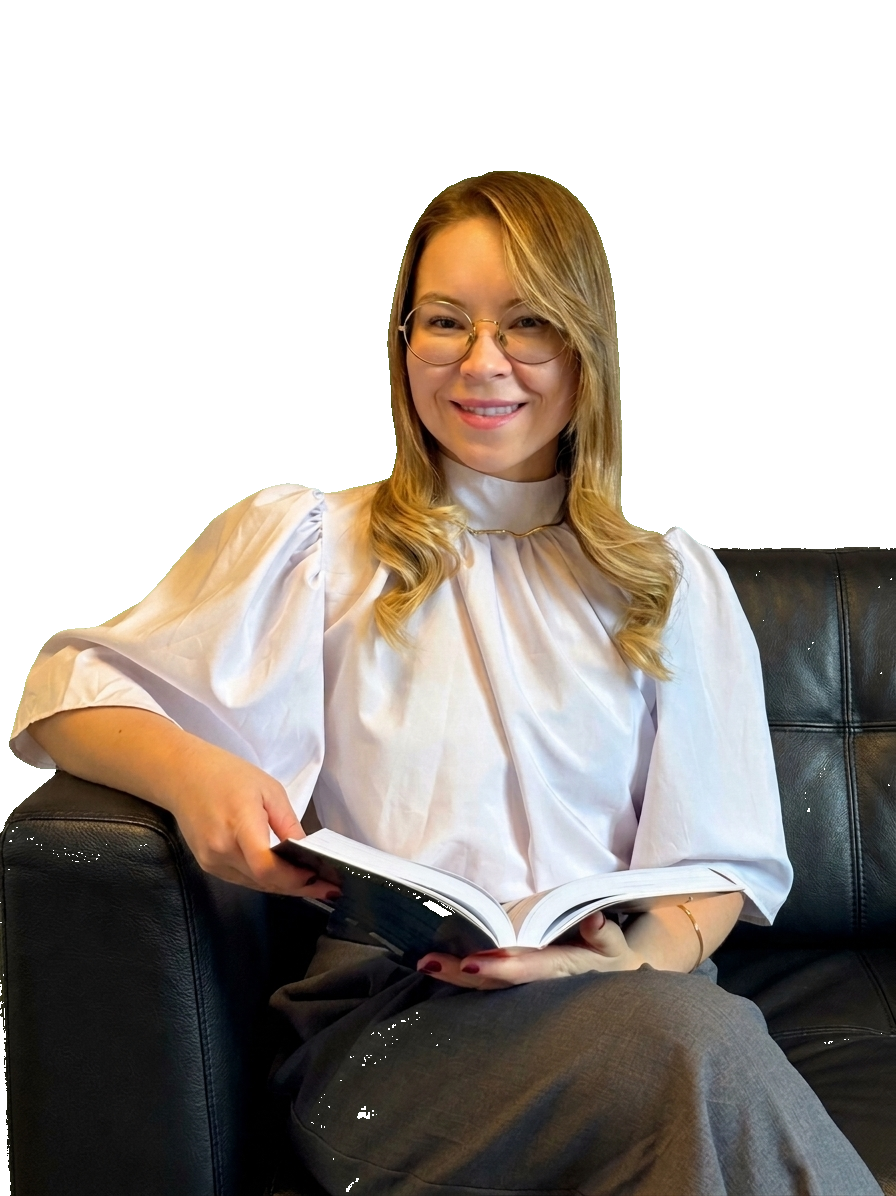
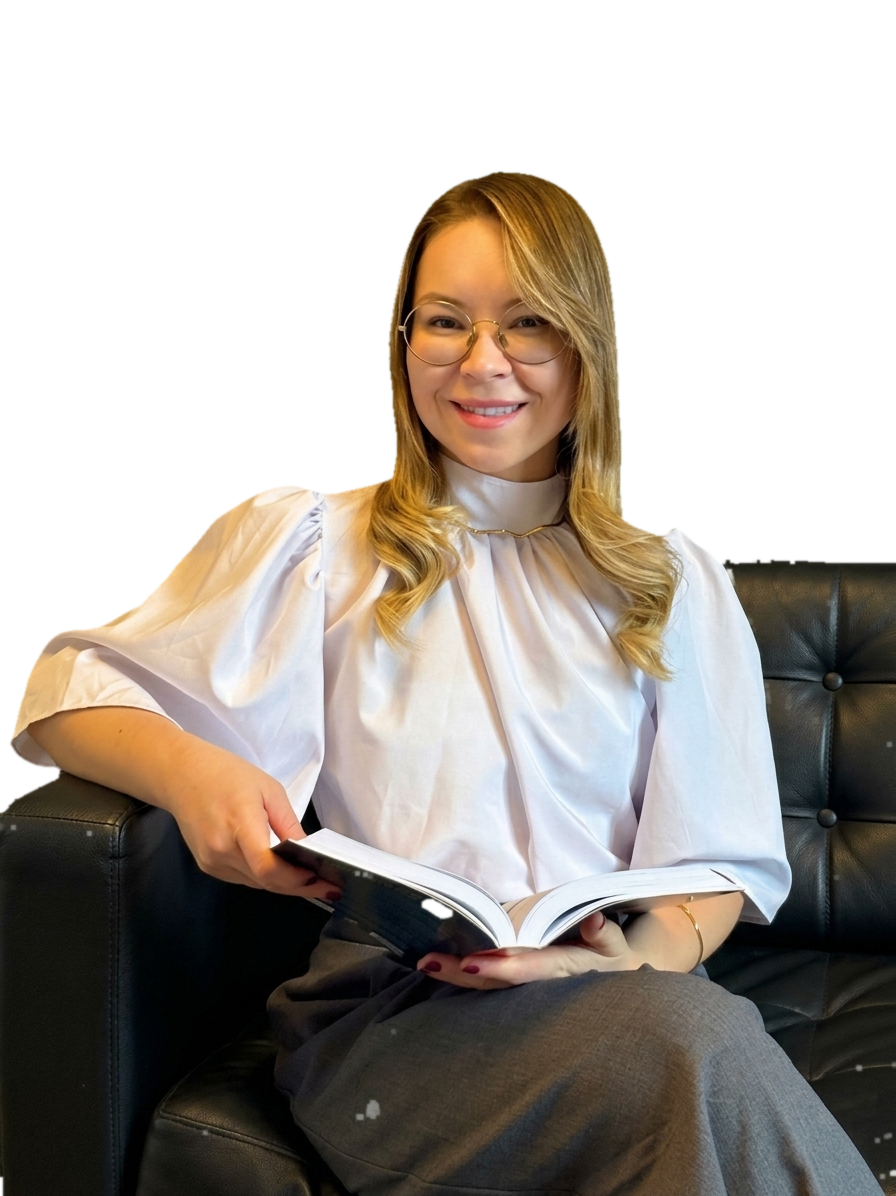
Add a greenscreen cutout script and the sofa photo without background.

diff --git a/scripts/remove_background.py b/scripts/remove_background.py
@@ -1,0 +1,113 @@
+#!/usr/bin/env python3
+"""Remove the green-screen background from sofa-preto.jpeg."""
+
+from __future__ import annotations
+
+import argparse
+from pathlib import Path
+
+from PIL import Image, ImageFilter
+
+ROOT = Path(__file__).resolve().parents[1]
+DEFAULT_SRC = ROOT / "app/assets/images/sofa-preto.jpeg"
+DEFAULT_DST = ROOT / "app/assets/images/sofa-preto.png"
+
+# Chroma-key thresholds: how much greener than R/B a pixel must be.
+HARD_GREEN = 28
+SOFT_GREEN = 8
+GREEN_HUE_MIN = 50
+GREEN_HUE_MAX = 105
+
+
+def greenness(r: int, g: int, b: int) -> int:
+    return g - max(r, b)
+
+
+def clamp(value: int) -> int:
+    return max(0, min(255, value))
+
+
+def key_alpha(r: int, g: int, b: int, h: int, s: int, v: int) -> int:
+    if v < 50 and max(r, g, b) < 90:
+        return 255
+
+    score = greenness(r, g, b)
+    hue_green = GREEN_HUE_MIN <= h <= GREEN_HUE_MAX
+
+    if hue_green and s >= 85 and v >= 40:
+        return 0
+    if g > 50 and score >= HARD_GREEN:
+        return 0
+
+    rgb_alpha = 255
+    if score > SOFT_GREEN:
+        t = (score - SOFT_GREEN) / (HARD_GREEN - SOFT_GREEN)
+        rgb_alpha = int(255 * (1.0 - t))
+
+    hue_alpha = 255
+    if hue_green and s > 35 and v > 30:
+        t = (s - 35) / 50
+        hue_alpha = int(255 * (1.0 - t))
+
+    return clamp(min(rgb_alpha, hue_alpha))
+
+
+def despill(r: int, g: int, b: int, h: int, s: int, alpha: int) -> tuple[int, int, int]:
+    if alpha == 0:
+        return r, g, b
+    max_rb = max(r, b)
+    pull = 0.85
+    if GREEN_HUE_MIN <= h <= GREEN_HUE_MAX:
+        pull = 0.95
+    if g > max_rb:
+        g = int(g - (g - max_rb) * pull)
+    if s > 20 and GREEN_HUE_MIN <= h <= GREEN_HUE_MAX:
+        # Shift leftover green toward the neighbor luminance.
+        g = int((g + max_rb) / 2)
+    return r, clamp(g), b
+
+
+def remove_green_screen(src: Path, dst: Path) -> Path:
+    image = Image.open(src).convert("RGBA")
+    hsv = image.convert("RGB").convert("HSV")
+    rgba_bytes = bytearray(image.tobytes())
+    hsv_bytes = hsv.tobytes()
+
+    for i in range(image.size[0] * image.size[1]):
+        rgba_i = i * 4
+        hsv_i = i * 3
+        r, g, b = rgba_bytes[rgba_i], rgba_bytes[rgba_i + 1], rgba_bytes[rgba_i + 2]
+        h, s, v = hsv_bytes[hsv_i], hsv_bytes[hsv_i + 1], hsv_bytes[hsv_i + 2]
+        alpha = key_alpha(r, g, b, h, s, v)
+        r, g, b = despill(r, g, b, h, s, alpha)
+        rgba_bytes[rgba_i] = r
+        rgba_bytes[rgba_i + 1] = g
+        rgba_bytes[rgba_i + 2] = b
+        rgba_bytes[rgba_i + 3] = alpha
+
+    keyed = Image.frombytes("RGBA", image.size, bytes(rgba_bytes))
+    rgb = keyed.convert("RGB")
+    alpha = keyed.getchannel("A").filter(ImageFilter.MinFilter(5))
+    alpha = alpha.filter(ImageFilter.GaussianBlur(radius=0.9))
+    rgb.putalpha(alpha)
+
+    dst.parent.mkdir(parents=True, exist_ok=True)
+    rgb.save(dst, "PNG")
+    return dst
+
+
+def parse_args() -> argparse.Namespace:
+    parser = argparse.ArgumentParser(description=__doc__)
+    parser.add_argument("src", nargs="?", type=Path, default=DEFAULT_SRC)
+    parser.add_argument("-o", "--output", type=Path, default=DEFAULT_DST)
+    return parser.parse_args()
+
+
+def main() -> None:
+    args = parse_args()
+    output = remove_green_screen(args.src, args.output)
+    print(f"Wrote {output}")
+
+
+if __name__ == "__main__":
+    main()
